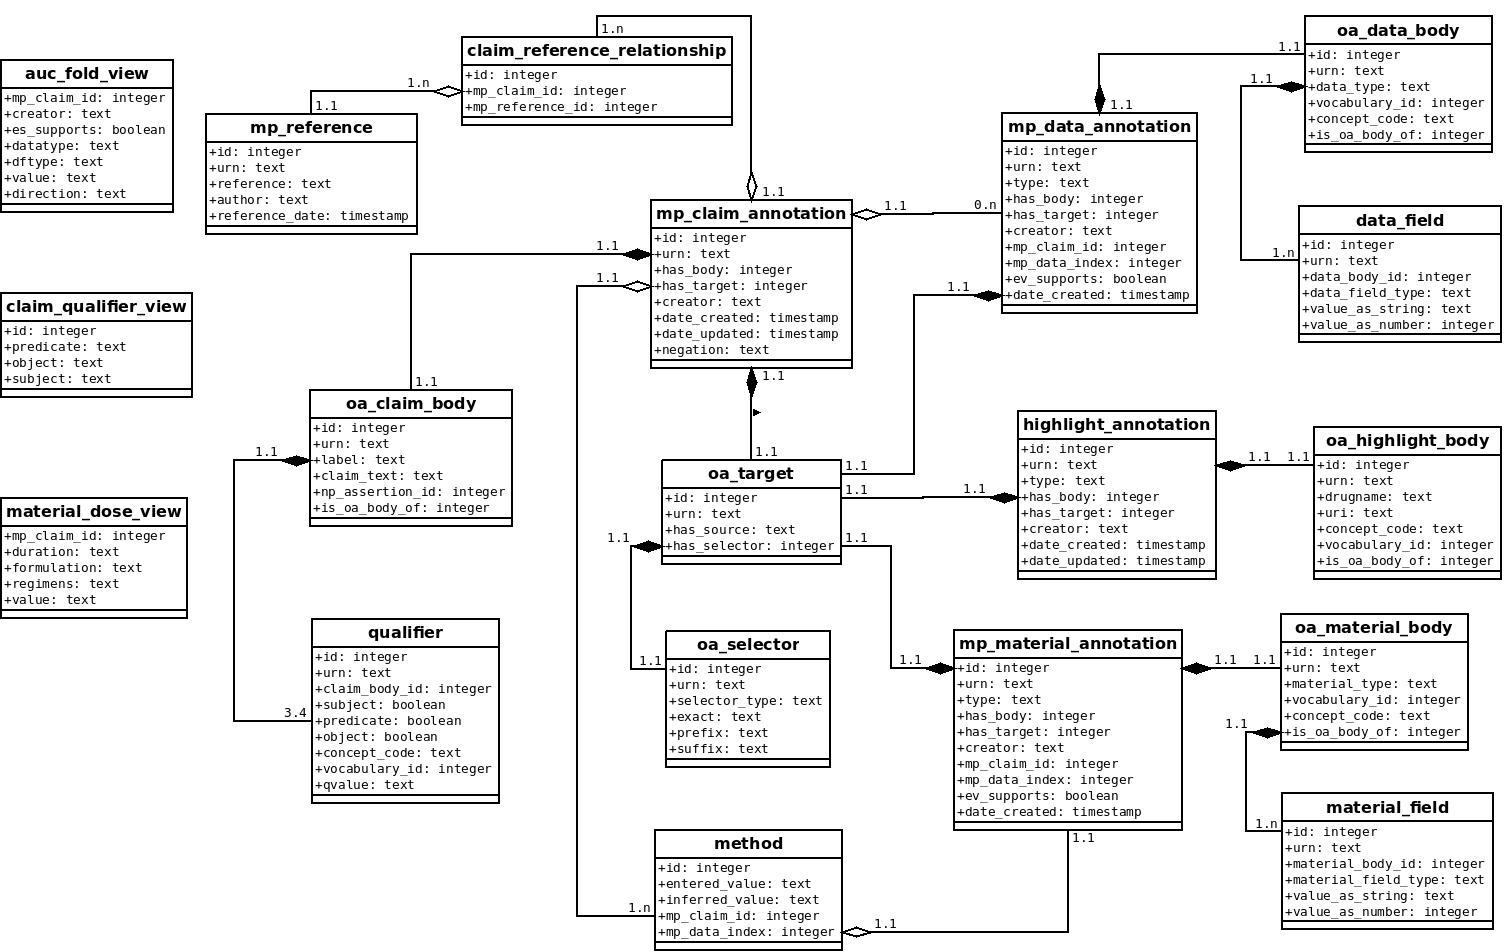
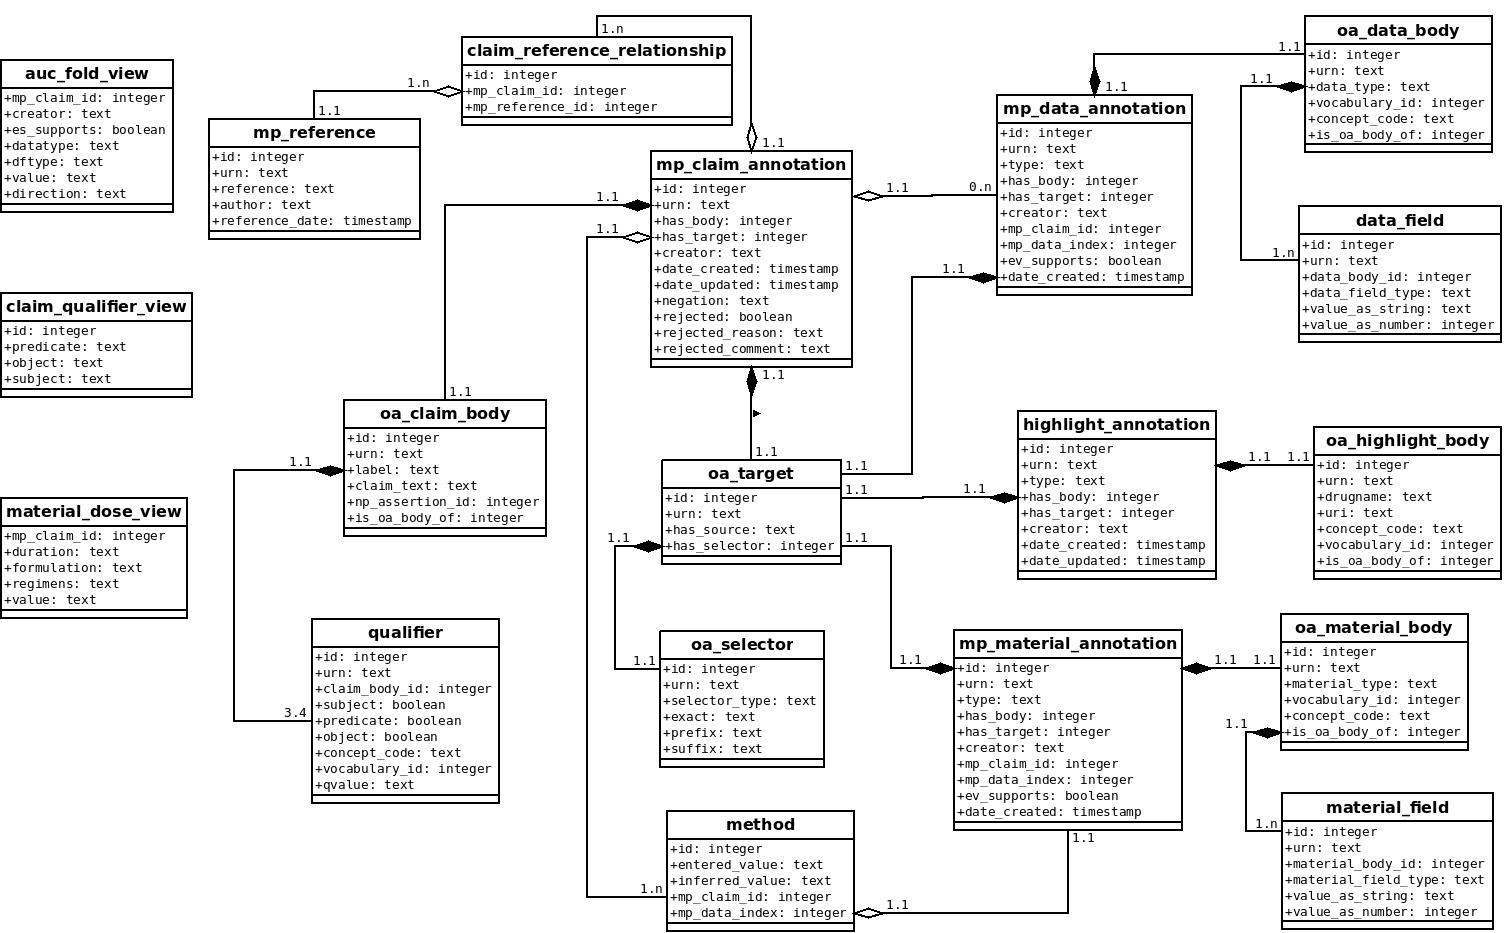
add phenotype, casereport, rejected evidence to exportation

diff --git a/controllers/routes.js b/controllers/routes.js
@@ -14,6 +14,7 @@
 
 
 config = require('./../config/config.js');
+utilcsv = require('./../utils/objtocsv.js');
 var request = require("request");
 var pg = require('pg');
 
@@ -200,87 +201,107 @@ module.exports = function(app, passport) {
     // EXPORT TO CSV ==============================
     app.get('/dbmiannotator/exportcsv', isLoggedIn, function(req, res){
 	
-	    var url = config.protocal + "://" + config.apache2.host + ":" + config.apache2.port + "/annotatorstore/search?email=" + req.query.email + "&annotationType=" + config.profile.def;
+	    //var url = config.protocal + "://" + config.apache2.host + ":" + config.apache2.port + "/annotatorstore/search?email=" + req.query.email + "&annotationType=" + config.profile.def;
+        var url = config.protocal + "://" + config.apache2.host + ":" + config.apache2.port + "/annotatorstore/search?annotationType=" + config.profile.def;
 	    
-	    request({url: url, json: true, followAllRedirects: true, "rejectUnauthorized": false}, function(error,response,body){
-            
+	    request({url: url, json: true, followAllRedirects: true, "rejectUnauthorized": false}, function(error,response,body){            
 	        if (!error && (response.statusCode === 200 || response.statusCode ===302)) {
                 var jsonObjs = body.rows;
 
                 res.attachment('annotations-'+req.query.email+'.csv');
 		        res.setHeader('Content-Type', 'text/csv');
-                var csvTxt = '"document"\t"claim label"\t"claim text"\t"method"\t"relationship"\t"drug1"\t"drug2"\t"precipitant"\t"enzyme"\t"evRelationship"\t"participants"\t"participants text"\t"drug1 dose"\t"drug1 formulation"\t"drug1 duration"\t"drug1 regimens"\t"drug1 dose text"\t"drug2 dose"\t"drug2 formulation"\t"drug2 duration"\t"drug2 regimens"\t"drug2 dose text"\t"auc"\t"auc type"\t"auc direction"\t"auc text"\t"cmax"\t"cmax type"\t"cmax direction"\t"cmax text"\t"cl"\t"cl type"\t"cl direction"\t"cl text"\t"halflife"\t"halflife type"\t"halflife direction"\t"halflife text"\t"group randomization"\t"parallel group design"\t"id"\n';
+                resultsL = [];
 
                 for (var i = 0; i < jsonObjs.length; i++) {
-
                     jsonObj = jsonObjs[i];
                     claim = jsonObj.argues;
-                    dataL = claim.supportsBy;                   
+                    dataL = claim.supportsBy;            
 
-                    var claimRow = '"' + jsonObj.rawurl + '"\t"' + claim.label + '"\t"' + claim.hasTarget.hasSelector.exact + '"\t"' + claim.method + '"\t"' + claim.qualifiedBy.relationship + '"\t"' + claim.qualifiedBy.drug1 + '"\t"' + claim.qualifiedBy.drug2 + '"\t"' + (claim.qualifiedBy.precipitant || '') + '"\t"' + (claim.qualifiedBy.enzyme || '' ) + '"';
+                    // initiate dict for one row in csv with claim information
+                    var rowDict={"document":jsonObj.rawurl, "useremail":jsonObj.email, "claimlabel":claim.label, "claimtext":claim.hasTarget.hasSelector.exact, "method":claim.method, "relationship":claim.qualifiedBy.relationship, "drug1":claim.qualifiedBy.drug1, "drug2":claim.qualifiedBy.drug2, "precipitant":(claim.qualifiedBy.precipitant||''), "enzyme":(claim.qualifiedBy.enzyme||''), "rejected": "", "evRelationship":"", "participants":"", "participantstext":"", "drug1dose":"", "drug1formulation":"", "drug1duration":"", "drug1regimens":"", "drug1dosetext":"", "drug2dose":"", "phenotypetype": "", "phenotypevalue": "", "phenotypemetabolizer": "", "phenotypepopulation": "", "drug2formulation":"", "drug2duration":"", "drug2regimens":"", "drug2dosetext":"", "aucvalue":"", "auctype":"", "aucdirection":"", "auctext":"", "cmaxvalue":"", "cmaxtype":"", "cmaxdirection":"", "cmaxtext":"", "clearancevalue":"", "clearancetype":"", "clearancedirection":"", "clearancetext":"", "halflifevalue":"", "halflifetype":"", "halflifedirection":"", "halflifetext":"", "dipsquestion":"", "reviewer":"", "reviewerdate":"", "reviewertotal":"", "reviewerlackinfo":"", "grouprandomization":"", "parallelgroupdesign":"", "id": jsonObj.id};
 
+                    if (claim.rejected != null)
+                        rowDict["rejected"] = (claim.rejected || "");
 
-                    var dataRow = null;
-                    if (dataL.length > 0) { // clinical trial annotation
-                        for (var j = 0; j < dataL.length; j++) {
+                    // fill data and material to dict
+                    if (dataL.length > 0) { // if data is available
+                        for (var j = 0; j < dataL.length; j++) { // loop all data items
                             var data = dataL[j];
                             var method = data.supportsBy;
                             var material = method.supportsBy;
-                            dataRow = "";
-                            
-                            dataRow += '\t"' + (data.evRelationship || '') + '"';
-                            
-                            if (material.participants != null)
-                                dataRow += '\t"' + (material.participants.value || '') + '"\t"' + (getSpanFromField(material.participants) || '') + '"';
-                            else 
-                                dataRow += '\t\t';
-                            
-                            if (material.drug1Dose != null) 
-                                dataRow += '\t"' + (material.drug1Dose.value || '') + '"\t"' + (material.drug1Dose.formulation || '') + '"\t"'  + (material.drug1Dose.duration || '') + '"\t"' + (material.drug1Dose.regimens || '') + '"\t"' + (getSpanFromField(material.drug1Dose) || '') + '"';
-                            else 
-                                dataRow += '\t\t\t\t';
-                            
-                            if (material.drug2Dose != null) 
-                                dataRow += '\t"' + (material.drug2Dose.value || '') + '"\t"' + (material.drug2Dose.formulation || '') + '"\t"'  + (material.drug2Dose.duration || '') + '"\t"' + (material.drug2Dose.regimens || '') + '"\t"' + (getSpanFromField(material.drug2Dose) || '') + '"';
-                            else 
-                                dataRow += '\t\t\t\t';
-                            
+
+                            rowDict["evRelationship"] = (data.evRelationship || "");
+
+                            if (material.participants != null) {
+                                rowDict["participants"] = (material.participants.value || "")
+                                rowDict["participantstext"] = (getSpanFromField(material.participants) || "")
+                            }
+
                             dataFieldsL = ["auc","cmax","clearance","halflife"];
                             for (p = 0; p < dataFieldsL.length; p++) {
                                 field = dataFieldsL[p];
-                                if (data[field] != null)    
-                                    dataRow += '\t"' + (data[field].value || '') + '"\t"' + (data[field].type || '') + '"\t"' + (data[field].direction || '') + '"\t"' + (getSpanFromField(data[field]) || '') + '"'; 
-                                else 
-                                    dataRow += '\t\t\t\t';
-                            }                        
-                            
+                                if (data[field] != null) {
+                                    rowDict[field + 'value'] = (data[field].value || "")
+                                    rowDict[field + 'type'] = (data[field].type || "")
+                                    rowDict[field + 'direction'] = (data[field].direction || "")
+                                    rowDict[field + 'text'] = (getSpanFromField(data[field]) || "")
+                                }
+                            }
+
+                            if (data.dips != null) {
+                                dipsQsStr = "";
+                                qsL=["q1","q2","q3","q4","q5","q6","q7","q8","q9","q10"];
+                                for (q = 0; q < qsL.length; q++) {
+                                    if (q == qsL.length - 1)
+                                        dipsQsStr += data.dips[qsL[q]];
+                                    else
+                                        dipsQsStr += data.dips[qsL[q]] + "|";
+                                }
+                                rowDict["dipsquestion"] = dipsQsStr;
+                            }
+
+                            if (data.reviewer != null) {
+                                rowDict["reviewer"] = data.reviewer.reviewer || "";
+                                rowDict["reviewerdate"] = data.reviewer.date || "";
+                                rowDict["reviewertotal"] = data.reviewer.total || "";
+                                rowDict["reviewerlackinfo"] = data.reviewer.lackinfo || "";
+                            }
+
                             if (data.grouprandom != null)
-                                dataRow += '\t"' + (data.grouprandom || '') + '"';
-                            else
-                                dataRow += '\t';
+                                rowDict["grouprandom"] = (data.grouprandom || "");                            
                             
                             if (data.parallelgroup != null)
-                                dataRow += '\t"' + (data.parallelgroup || '') + '"';
-                            else
-                                dataRow += '\t';                            
+                                rowDict["parallelgroup"] = (data.parallelgroup || "");
 
-                            // for multiple data case
-                            dataRow += '\t"' + jsonObj.id + '"'
-                            dataRow = claimRow + dataRow + '\n';
-                            csvTxt += dataRow;
+                            if (material.drug1Dose != null) {
+                                rowDict["drug1dose"] = (material.drug1Dose.value || "")
+                                rowDict["drug1formulation"] = (material.drug1Dose.formulation || "")
+                                rowDict["drug1duration"] = (material.drug1Dose.duration || "")
+                                rowDict["drug1regimens"] = (material.drug1Dose.regimens || "")
+                            } 
+                            if (material.drug2Dose != null) {
+                                rowDict["drug2dose"] = (material.drug2Dose.value || "")
+                                rowDict["drug2formulation"] = (material.drug2Dose.formulation || "")
+                                rowDict["drug2duration"] = (material.drug2Dose.duration || "")
+                                rowDict["drug2regimens"] = (material.drug2Dose.regimens || "")
+                            }                                 
+                            if (material.phenotype != null) {
+                                rowDict["phenotypetype"] = material.phenotype.type || "";
+                                rowDict["phenotypevalue"] = material.phenotype.typeVal || "";
+                                rowDict["phenotypemetabolizer"] = material.phenotype.metabolizer || "";
+                                rowDict["phenotypepopulation"] = material.phenotype.population || "";
+                            }                      
+                            resultsL.push(rowDict);
                         }
-                    } else { // statement annotation
-                        dataRow = '\t\t\t\t\t\t\t\t\t\t\t\t\t\t\t\t\t\t\t\t\t\t\t\t\t\t\t\t\t\t\t';
-                        dataRow += '\t"' + jsonObj.id + '"'
-                        dataRow = claimRow + dataRow + '\n';
-                        csvTxt += dataRow;
                     }
-
                 }
-                
+
+                console.log(resultsL.length);
+                csvTxt = utilcsv.toCsv(resultsL, '"', '\t');
+
 		        res.attachment('annotations-'+req.query.email+'.csv');
 		        res.setHeader('Content-Type', 'text/csv');
-		        res.end(csvTxt);                    
+		        res.end(csvTxt);                                              
 		        
 	        } else {
 		        //req.flash('exportMessage', 'exported failed, annotation fetch exception, please see logs or contact Yifan at yin2@pitt.edu!');
@@ -300,9 +321,6 @@ function getSpanFromField(field) {
         return "";
     }
 }
-
-
-
 
 // MIDDLE WARE FUNCTIONS ==============================
 
